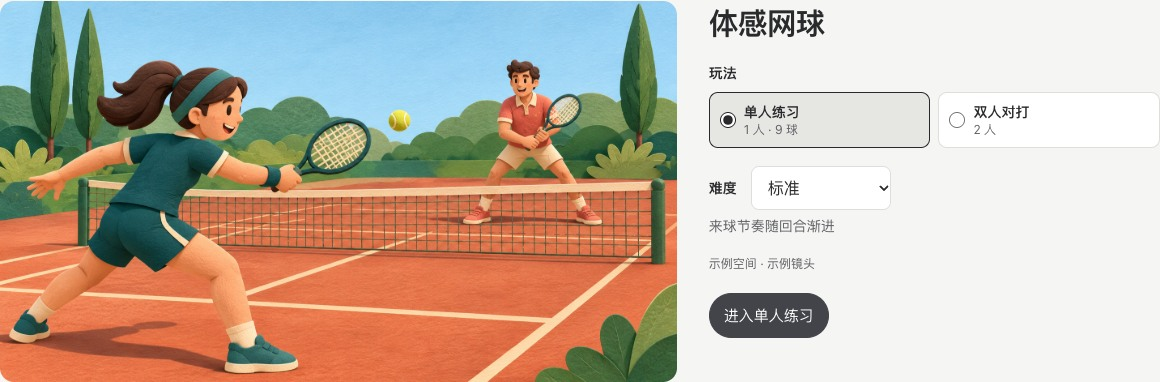
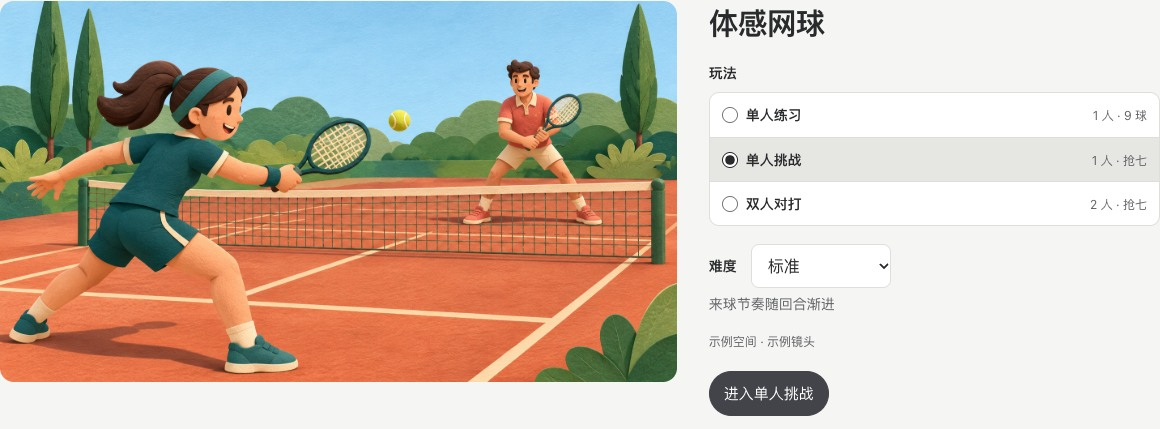
文档：说明体感网球单人挑战

diff --git a/docs/guides/games.md b/docs/guides/games.md
@@ -12,19 +12,27 @@
 
 ## 体感网球
 
-在「家庭游戏」打开「体感网球」，选择「单人练习」或「双人对打」，再按对应的进入按钮。进入球场后，等画面准备好，选择「开始本局」。
+在「家庭游戏」打开「体感网球」，选择「单人练习」「单人挑战」或「双人对打」，再按对应的进入按钮。进入球场后，等画面准备好，选择「开始本局」。
 
 已有对局时，可以直接继续。要换玩法，选好下一局玩法，再按「换玩法并开局」。打完一局后，详情也可以直接查看本局成绩。
 
-![体感网球详情中的单人练习与双人对打选项，示例游戏](../assets/screenshots/friday-tennis-library-choice.jpg)
+![体感网球详情中的三种玩法，示例游戏](../assets/screenshots/friday-tennis-library-choice.jpg)
 
 **一个人怎么练？** 独自站在镜头前，让双脚和挥拍手入镜。陪练依次送出三组球，先练定点回球，再练左右移动和更快的来球。走进落点圈，看到「挥拍」再出手。手部或脚部识别丢失时，本球会暂停，归位后继续。
 
 ![单人练习的落点圈与挥拍提示，示例游戏](../assets/screenshots/friday-tennis-practice-return.jpg)
 
-九球结束后可以查看命中和最长连击，选择「再练一轮」或「双人对打」。
+九球结束后可以查看命中和最长连击，选择「再练一轮」，也可以切换到计分比赛。
 
 ![单人练习的九球成绩和重练入口，示例游戏](../assets/screenshots/friday-tennis-practice-results.jpg)
+
+### 一个人打一场计分赛
+
+选择「单人挑战」，进入球场后点击「开始本局」。站到镜头前，让双脚和挥拍手入镜。看到「挥拍发球」时开出第一球。对手回球时，先移动到落点圈，再按「挥拍」提示出手。
+
+![单人挑战的球场与回球提示，示例游戏](../assets/screenshots/friday-tennis-solo-court.jpg)
+
+首分后换发，此后每两分换发。先到 7 分并领先 2 分获胜，15 分封顶。选「轻松」时来球较慢、对手移动较慢，选「挑战」时需要更快移动和挥拍。离开画面时暂停当前一分，回到原站位后继续。赛后可选「再打一场」或切换玩法。
 
 **两个人怎么开球？** 并排站好，双脚入镜。左侧的 1 号先发球，看到自己的发球提示后挥拍。首分后换发，此后每两分轮换。
 

diff --git a/docs/troubleshooting/faq.md b/docs/troubleshooting/faq.md
@@ -141,3 +141,7 @@
 ## Q33. 需要别人协助时提供什么？
 
 提供发生时间、页面、操作、提示和设备实际变化。不要发送密码、验证码或模型密钥；真实家庭画面只在你认可的范围内分享。
+
+## Q34. 一个人可以打计分网球吗？
+
+可以。在「体感网球」选「单人挑战」，和球场对手打抢七。想先熟悉落点和挥拍时机，可以选「单人练习」。详见[一个人打一场计分赛](../guides/games.md#一个人打一场计分赛)。
